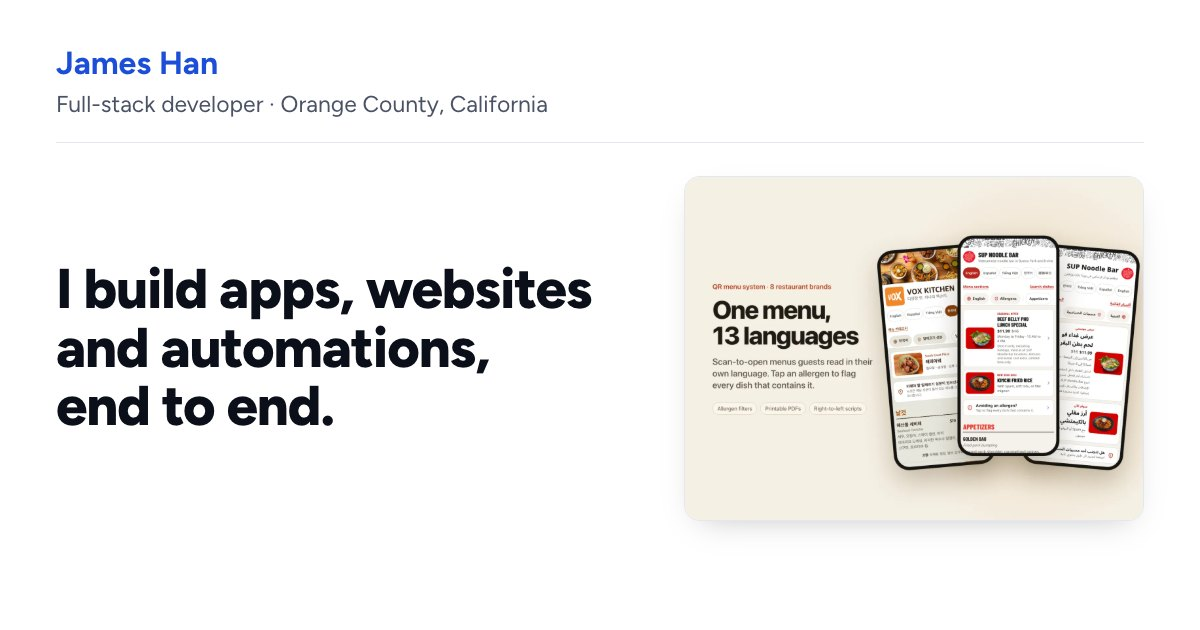
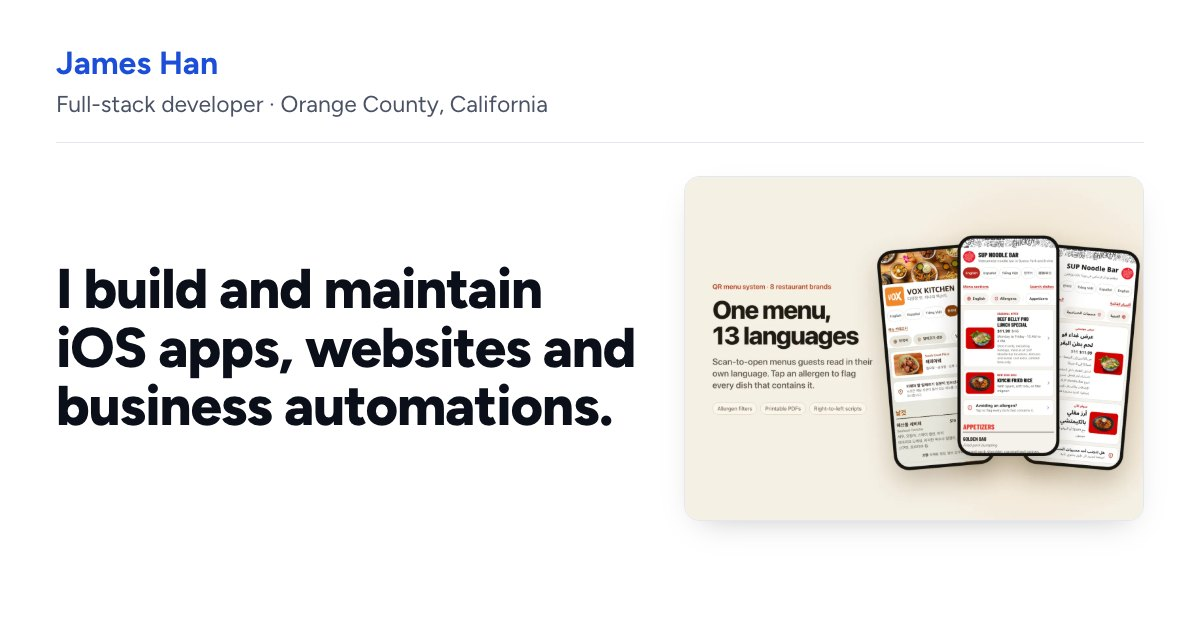
Professional hero copy, Fyt heading, full-screen screenshot viewer
The hero states the work plainly: iOS apps, websites and business automations,
built end to end and supported after launch. Fyt's heading names it a social
fitness app for iPhone and Apple Watch. The "See all screens" screenshots open
full screen with a caption, a count, arrows, swipe and Back to close; without
the script each one is a link to its large image. Meta, social image and README
follow the new copy.

Changed region(s): [[0.0308, 0.4222, 0.555, 0.6937]]

diff --git a/src/index.html b/src/index.html
@@ -6,17 +6,17 @@
   <meta name="theme-color" content="#1D4ED8">
   <meta name="color-scheme" content="light">
   <title>James Han · Full-stack developer in Orange County</title>
-  <meta name="description" content="James Han builds apps, websites and automations end to end, from the screens people tap to the server behind them. See the work: Fyt on the App Store and multilingual restaurant menus.">
+  <meta name="description" content="James Han builds and maintains iOS apps, websites and business automations, from the interface to the API, database and deployment. See the work: Fyt on the App Store and multilingual restaurant menus.">
   <link rel="canonical" href="{{site.url}}">
   <meta property="og:type" content="website">
   <meta property="og:url" content="{{site.url}}">
   <meta property="og:site_name" content="James Han">
   <meta property="og:title" content="James Han · Full-stack developer">
-  <meta property="og:description" content="Apps, websites and automations, built end to end in Orange County, California.">
+  <meta property="og:description" content="iOS apps, websites and business automations, built and maintained in Orange County, California.">
   <meta property="og:image" content="{{site.url}}assets/og.jpg">
   <meta property="og:image:width" content="1200">
   <meta property="og:image:height" content="630">
-  <meta property="og:image:alt" content="James Han, full-stack developer in Orange County, California. I build apps, websites and automations, end to end. Beside the headline, three phones show menus in Korean, English and Arabic on a white and blue preview.">
+  <meta property="og:image:alt" content="James Han, full-stack developer in Orange County, California. I build and maintain iOS apps, websites and business automations. Beside the headline, three phones show menus in Korean, English and Arabic on a white and blue preview.">
   <meta name="twitter:card" content="summary_large_image">
   <link rel="icon" href="favicon.svg" type="image/svg+xml">
   <link rel="icon" href="favicon-32.png" type="image/png" sizes="32x32">
@@ -24,6 +24,7 @@
   <link rel="preload" href="fonts/figtree/figtree-normal-latin.woff2" as="font" type="font/woff2" crossorigin>
   <link rel="preload" as="image" href="assets/menus-cover-v2-700.webp" imagesrcset="assets/menus-cover-v2-700.webp 700w, assets/menus-cover-v2-1400.webp 1400w" imagesizes="(min-width: 1296px) 553px, calc(48vw - 46px)" media="(min-width: 1100px)" fetchpriority="high">
   <link rel="stylesheet" href="styles.css">
+  <script src="viewer.js" defer></script>
 </head>
 <body>
   <a class="skip-link" href="#main">Skip to content</a>
@@ -55,8 +56,8 @@
       <div class="container hero-layout">
         <div class="hero-copy">
           <p class="eyebrow">Full-stack developer · {{person.area}}</p>
-          <h1 id="hero-title">I build apps, websites and automations, end to end.</h1>
-          <p class="hero-support">The screens people tap, the server and database behind them, the launch, and the upkeep after.</p>
+          <h1 id="hero-title">I build and maintain iOS apps, websites and business automations.</h1>
+          <p class="hero-support">End-to-end development, from the interface to the API, database and deployment, with support after launch.</p>
           <div class="hero-actions">
             <a class="button button-primary" href="mailto:{{person.email}}">Email me</a>
             <a class="button button-secondary text-action" href="#work">See the work <svg class="icon" viewBox="0 0 24 24" width="20" height="20" aria-hidden="true"><path d="M12 4v16m-6-6 6 6 6-6"></path></svg></a>
@@ -109,27 +110,27 @@
               <div class="details-content">
                 <div class="screen-grid phone-grid">
                   <figure>
-                    <img class="phone-screen" src="assets/menu-01-directory-585.webp" srcset="assets/menu-01-directory-585.webp 585w, assets/menu-01-directory-1170.webp 1170w" sizes="(min-width: 624px) 280px, calc(50vw - 32px)" width="1170" height="2532" alt="A mobile directory with links to each restaurant brand’s menu." loading="lazy">
+                    <a class="shot-link" href="assets/menu-01-directory-1170.webp"><img class="phone-screen" src="assets/menu-01-directory-585.webp" srcset="assets/menu-01-directory-585.webp 585w, assets/menu-01-directory-1170.webp 1170w" sizes="(min-width: 624px) 280px, calc(50vw - 32px)" width="1170" height="2532" alt="A mobile directory with links to each restaurant brand’s menu." loading="lazy"></a>
                     <figcaption>The directory: every brand’s menu in one place</figcaption>
                   </figure>
                   <figure>
-                    <img class="phone-screen" src="assets/menu-02-en-585.webp" srcset="assets/menu-02-en-585.webp 585w, assets/menu-02-en-1170.webp 1170w" sizes="(min-width: 624px) 280px, calc(50vw - 32px)" width="1170" height="2532" alt="The English menu with dish photos, language choices and allergen controls." loading="lazy">
+                    <a class="shot-link" href="assets/menu-02-en-1170.webp"><img class="phone-screen" src="assets/menu-02-en-585.webp" srcset="assets/menu-02-en-585.webp 585w, assets/menu-02-en-1170.webp 1170w" sizes="(min-width: 624px) 280px, calc(50vw - 32px)" width="1170" height="2532" alt="The English menu with dish photos, language choices and allergen controls." loading="lazy"></a>
                     <figcaption>A menu in English, as a guest sees it at the table</figcaption>
                   </figure>
                   <figure>
-                    <img class="phone-screen" src="assets/menu-04-ar-585.webp" srcset="assets/menu-04-ar-585.webp 585w, assets/menu-04-ar-1170.webp 1170w" sizes="(min-width: 624px) 280px, calc(50vw - 32px)" width="1170" height="2532" alt="The Arabic menu with right-aligned text and mirrored navigation." loading="lazy">
+                    <a class="shot-link" href="assets/menu-04-ar-1170.webp"><img class="phone-screen" src="assets/menu-04-ar-585.webp" srcset="assets/menu-04-ar-585.webp 585w, assets/menu-04-ar-1170.webp 1170w" sizes="(min-width: 624px) 280px, calc(50vw - 32px)" width="1170" height="2532" alt="The Arabic menu with right-aligned text and mirrored navigation." loading="lazy"></a>
                     <figcaption>The same menu in Arabic, laid out right to left</figcaption>
                   </figure>
                   <figure>
-                    <img class="phone-screen" src="assets/menu-06-allergen-585.webp" srcset="assets/menu-06-allergen-585.webp 585w, assets/menu-06-allergen-1170.webp 1170w" sizes="(min-width: 624px) 280px, calc(50vw - 32px)" width="1170" height="2532" alt="An allergen selection sheet opened over the menu." loading="lazy">
+                    <a class="shot-link" href="assets/menu-06-allergen-1170.webp"><img class="phone-screen" src="assets/menu-06-allergen-585.webp" srcset="assets/menu-06-allergen-585.webp 585w, assets/menu-06-allergen-1170.webp 1170w" sizes="(min-width: 624px) 280px, calc(50vw - 32px)" width="1170" height="2532" alt="An allergen selection sheet opened over the menu." loading="lazy"></a>
                     <figcaption>Choosing an allergen to avoid</figcaption>
                   </figure>
                   <figure>
-                    <img class="phone-screen" src="assets/menu-08-flagged-585.webp" srcset="assets/menu-08-flagged-585.webp 585w, assets/menu-08-flagged-1170.webp 1170w" sizes="(min-width: 624px) 280px, calc(50vw - 32px)" width="1170" height="2532" alt="Menu dishes marked with a warning when they contain the selected allergen." loading="lazy">
+                    <a class="shot-link" href="assets/menu-08-flagged-1170.webp"><img class="phone-screen" src="assets/menu-08-flagged-585.webp" srcset="assets/menu-08-flagged-585.webp 585w, assets/menu-08-flagged-1170.webp 1170w" sizes="(min-width: 624px) 280px, calc(50vw - 32px)" width="1170" height="2532" alt="Menu dishes marked with a warning when they contain the selected allergen." loading="lazy"></a>
                     <figcaption>Dishes that contain it are highlighted</figcaption>
                   </figure>
                   <figure>
-                    <img class="phone-screen" src="assets/menu-07-ko-585.webp" srcset="assets/menu-07-ko-585.webp 585w, assets/menu-07-ko-1170.webp 1170w" sizes="(min-width: 624px) 280px, calc(50vw - 32px)" width="1170" height="2532" alt="A different restaurant’s Korean menu with its own orange colours and food photography." loading="lazy">
+                    <a class="shot-link" href="assets/menu-07-ko-1170.webp"><img class="phone-screen" src="assets/menu-07-ko-585.webp" srcset="assets/menu-07-ko-585.webp 585w, assets/menu-07-ko-1170.webp 1170w" sizes="(min-width: 624px) 280px, calc(50vw - 32px)" width="1170" height="2532" alt="A different restaurant’s Korean menu with its own orange colours and food photography." loading="lazy"></a>
                     <figcaption>Another brand’s menu, in Korean</figcaption>
                   </figure>
                 </div>
@@ -147,7 +148,7 @@
           </article>
 
           <article class="project project-reverse" aria-labelledby="fyt-title">
-            <h3 class="project-title" id="fyt-title">Fyt: run club and gym tracker</h3>
+            <h3 class="project-title" id="fyt-title">Fyt: a social fitness app for iPhone and Apple Watch</h3>
             <div class="project-photo">
               <figure>
                 <a class="phone-pair" href="{{fyt.app_store_url}}" aria-label="Open Fyt on the App Store">
@@ -176,19 +177,19 @@
               <div class="details-content">
                 <div class="screen-grid phone-grid phone-grid-four">
                   <figure>
-                    <img class="phone-screen" src="assets/fyt-02-runs-585.webp" srcset="assets/fyt-02-runs-585.webp 585w, assets/fyt-02-runs-1170.webp 1170w" sizes="(min-width: 624px) 280px, calc(50vw - 32px)" width="1320" height="2868" alt="Fyt’s App Store screenshot “Every mile, mapped”: the club feed with a run’s route map, distance, pace and time, beside its heart rate and calories." loading="lazy">
+                    <a class="shot-link" href="assets/fyt-02-runs-1170.webp"><img class="phone-screen" src="assets/fyt-02-runs-585.webp" srcset="assets/fyt-02-runs-585.webp 585w, assets/fyt-02-runs-1170.webp 1170w" sizes="(min-width: 624px) 280px, calc(50vw - 32px)" width="1320" height="2868" alt="Fyt’s App Store screenshot “Every mile, mapped”: the club feed with a run’s route map, distance, pace and time, beside its heart rate and calories." loading="lazy"></a>
                     <figcaption>Every mile, mapped: the route, pace and time for each run</figcaption>
                   </figure>
                   <figure>
-                    <img class="phone-screen" src="assets/fyt-03-run-record-585.webp" srcset="assets/fyt-03-run-record-585.webp 585w, assets/fyt-03-run-record-1170.webp 1170w" sizes="(min-width: 624px) 280px, calc(50vw - 32px)" width="1320" height="2868" alt="Fyt’s App Store screenshot “Record your run, live”: GPS recording on a map, with the same run on an Apple Watch." loading="lazy">
+                    <a class="shot-link" href="assets/fyt-03-run-record-1170.webp"><img class="phone-screen" src="assets/fyt-03-run-record-585.webp" srcset="assets/fyt-03-run-record-585.webp 585w, assets/fyt-03-run-record-1170.webp 1170w" sizes="(min-width: 624px) 280px, calc(50vw - 32px)" width="1320" height="2868" alt="Fyt’s App Store screenshot “Record your run, live”: GPS recording on a map, with the same run on an Apple Watch." loading="lazy"></a>
                     <figcaption>Record your run, live, on iPhone and Apple Watch</figcaption>
                   </figure>
                   <figure>
-                    <img class="phone-screen" src="assets/fyt-04-gym-585.webp" srcset="assets/fyt-04-gym-585.webp 585w, assets/fyt-04-gym-1170.webp 1170w" sizes="(min-width: 624px) 280px, calc(50vw - 32px)" width="1320" height="2868" alt="Fyt’s App Store screenshot “Every lift, logged”: a finished gym session with a muscle diagram, sets, total volume, records and the exercises done." loading="lazy">
+                    <a class="shot-link" href="assets/fyt-04-gym-1170.webp"><img class="phone-screen" src="assets/fyt-04-gym-585.webp" srcset="assets/fyt-04-gym-585.webp 585w, assets/fyt-04-gym-1170.webp 1170w" sizes="(min-width: 624px) 280px, calc(50vw - 32px)" width="1320" height="2868" alt="Fyt’s App Store screenshot “Every lift, logged”: a finished gym session with a muscle diagram, sets, total volume, records and the exercises done." loading="lazy"></a>
                     <figcaption>Every lift, logged: sets, volume and the muscles trained</figcaption>
                   </figure>
                   <figure>
-                    <img class="phone-screen" src="assets/fyt-05-gym-record-585.webp" srcset="assets/fyt-05-gym-record-585.webp 585w, assets/fyt-05-gym-record-1170.webp 1170w" sizes="(min-width: 624px) 280px, calc(50vw - 32px)" width="1320" height="2868" alt="Fyt’s App Store screenshot “Track your lift, live”: a gym session in progress, with weights and reps checked off set by set." loading="lazy">
+                    <a class="shot-link" href="assets/fyt-05-gym-record-1170.webp"><img class="phone-screen" src="assets/fyt-05-gym-record-585.webp" srcset="assets/fyt-05-gym-record-585.webp 585w, assets/fyt-05-gym-record-1170.webp 1170w" sizes="(min-width: 624px) 280px, calc(50vw - 32px)" width="1320" height="2868" alt="Fyt’s App Store screenshot “Track your lift, live”: a gym session in progress, with weights and reps checked off set by set." loading="lazy"></a>
                     <figcaption>Track your lift, live, set by set</figcaption>
                   </figure>
                 </div>

diff --git a/src/viewer.js b/src/viewer.js
@@ -1,0 +1,78 @@
+// Full-screen viewer for the gallery screenshots. Without this script each screenshot is a plain link to its
+// large image, so nothing depends on it.
+(() => {
+  const links = [...document.querySelectorAll('.shot-link')];
+  if (!links.length || typeof HTMLDialogElement !== 'function') return;
+
+  const icon = d => `<svg viewBox="0 0 24 24" width="22" height="22" aria-hidden="true"><path d="${d}"></path></svg>`;
+  const dialog = document.createElement('dialog');
+  dialog.className = 'viewer';
+  dialog.setAttribute('aria-label', 'Screenshot viewer');
+  dialog.innerHTML = `
+    <p class="viewer-count" aria-live="polite"></p>
+    <button class="viewer-close" type="button" aria-label="Close">${icon('M6 6l12 12M18 6 6 18')}</button>
+    <button class="viewer-step viewer-prev" type="button" aria-label="Previous screenshot">${icon('m15 5-7 7 7 7')}</button>
+    <figure class="viewer-figure"><img class="viewer-image" alt="" width="1170" height="2532"><figcaption class="viewer-caption"></figcaption></figure>
+    <button class="viewer-step viewer-next" type="button" aria-label="Next screenshot">${icon('m9 5 7 7-7 7')}</button>`;
+  document.body.append(dialog);
+  const $ = s => dialog.querySelector(s);
+  const image = $('.viewer-image'), caption = $('.viewer-caption'), count = $('.viewer-count');
+  const prev = $('.viewer-prev'), next = $('.viewer-next');
+  let group = [], index = 0, opener = null;
+
+  const show = i => {
+    index = Math.max(0, Math.min(group.length - 1, i));
+    const link = group[index];
+    image.src = link.getAttribute('href');
+    const thumb = link.querySelector('img');
+    image.alt = thumb.alt;
+    image.width = Number(thumb.getAttribute('width'));
+    image.height = Number(thumb.getAttribute('height'));
+    caption.textContent = link.closest('figure').querySelector('figcaption')?.textContent ?? '';
+    count.textContent = `${index + 1} of ${group.length}`;
+    prev.disabled = index === 0;
+    next.disabled = index === group.length - 1;
+  };
+
+  // One history entry while the viewer is open, so a phone's Back gesture closes it.
+  if (history.state?.viewer) history.replaceState(null, '');
+  const open = link => {
+    group = [...link.closest('.screen-grid').querySelectorAll('.shot-link')];
+    opener = link;
+    show(group.indexOf(link));
+    dialog.showModal();
+    history.pushState({ viewer: true }, '');
+  };
+  dialog.addEventListener('close', () => {
+    if (history.state?.viewer) history.back();
+    image.removeAttribute('src');
+    opener?.focus();
+  });
+  addEventListener('popstate', () => { if (dialog.open) dialog.close(); });
+
+  for (const link of links) {
+    link.addEventListener('click', e => {
+      if (e.button || e.metaKey || e.ctrlKey || e.shiftKey || e.altKey) return;
+      e.preventDefault();
+      open(link);
+    });
+  }
+  $('.viewer-close').addEventListener('click', () => dialog.close());
+  prev.addEventListener('click', () => show(index - 1));
+  next.addEventListener('click', () => show(index + 1));
+  dialog.addEventListener('keydown', e => {
+    if (e.key === 'ArrowLeft') show(index - 1);
+    else if (e.key === 'ArrowRight') show(index + 1);
+  });
+  // A tap outside the screenshot closes; a sideways swipe moves between screenshots; a downward swipe closes.
+  dialog.addEventListener('click', e => { if (e.target === dialog || e.target.classList.contains('viewer-figure')) dialog.close(); });
+  let start = null;
+  dialog.addEventListener('pointerdown', e => { if (!e.target.closest('button')) start = { x: e.clientX, y: e.clientY }; });
+  dialog.addEventListener('pointerup', e => {
+    if (!start) return;
+    const dx = e.clientX - start.x, dy = e.clientY - start.y;
+    start = null;
+    if (Math.abs(dx) > 50 && Math.abs(dx) > Math.abs(dy)) show(index + (dx < 0 ? 1 : -1));
+    else if (dy > 80 && dy > Math.abs(dx)) dialog.close();
+  });
+})();

diff --git a/src/styles.css b/src/styles.css
@@ -243,6 +243,50 @@ figcaption { margin-top: 12px; color: var(--secondary); font-size: 16px; line-he
   .navigation { gap: 12px; }
   .nav-email { padding-inline: 16px; }
 }
+/* Gallery screenshots open full screen (viewer.js); without the script each link opens the large image. */
+.shot-link { display: block; border-radius: 12px; cursor: zoom-in; }
+.shot-link img { display: block; }
+html:has(.viewer[open]) { overflow: hidden; }
+.viewer {
+  width: 100vw;
+  max-width: none;
+  height: 100dvh;
+  max-height: none;
+  margin: 0;
+  padding: 0;
+  border: 0;
+  background: var(--text);
+  color: var(--ground);
+}
+.viewer::backdrop { background: var(--text); }
+.viewer[open] { display: grid; grid-template-columns: 64px minmax(0, 1fr) 64px; grid-template-rows: 64px minmax(0, 1fr); touch-action: pan-y pinch-zoom; }
+.viewer-count { grid-column: 1 / 3; grid-row: 1; align-self: center; margin: 0; padding-inline: 20px; color: #c9cfdb; font-size: 15px; font-variant-numeric: tabular-nums; }
+.viewer-figure { display: grid; grid-column: 1 / -1; grid-row: 2; grid-template-rows: minmax(0, 1fr) auto; justify-items: center; min-height: 0; margin: 0; padding: 0 16px 20px; }
+.viewer-image { width: auto; height: auto; min-height: 0; max-width: 100%; max-height: 100%; object-fit: contain; border-radius: 16px; }
+.viewer-caption { max-width: 60ch; margin-top: 12px; color: #c9cfdb; font-size: 15px; line-height: 1.5; text-align: center; }
+.viewer button {
+  display: grid;
+  z-index: 1;
+  width: 44px;
+  height: 44px;
+  place-items: center;
+  place-self: center;
+  padding: 0;
+  border: 1px solid rgb(255 255 255 / 28%);
+  border-radius: 50%;
+  background: rgb(11 15 25 / 72%);
+  color: var(--ground);
+  cursor: pointer;
+}
+.viewer button svg { fill: none; stroke: currentColor; stroke-width: 2; stroke-linecap: round; stroke-linejoin: round; }
+.viewer button:hover:not(:disabled) { border-color: var(--ground); }
+.viewer button:disabled { opacity: 0.3; cursor: default; }
+.viewer button:focus-visible { outline: 3px solid var(--ground); outline-offset: 3px; }
+.viewer-close { grid-column: 3; grid-row: 1; }
+.viewer-step { grid-row: 2; }
+.viewer-prev { grid-column: 1; }
+.viewer-next { grid-column: 3; }
+
 @media print {
   @page { size: letter; margin: 12mm; }
   html { scroll-padding-top: 0; }

diff --git a/README.md b/README.md
@@ -1,8 +1,8 @@
 # jameshan.fyt.life
 
-The one-page site of James Han, a full-stack developer in Orange County, California, who builds apps, websites and automations end to end.
+The one-page site of James Han, a full-stack developer in Orange County, California, who builds and maintains iOS apps, websites and business automations.
 
-It is plain HTML and CSS with no JavaScript, no framework and no trackers: selected work, services, how a project runs, and how to get in touch.
+It is plain HTML and CSS with no framework and no trackers, plus one small script for the full-screen screenshot viewer (everything works without it): selected work, services, how a project runs, and how to get in touch.
 
 ## Build
 
